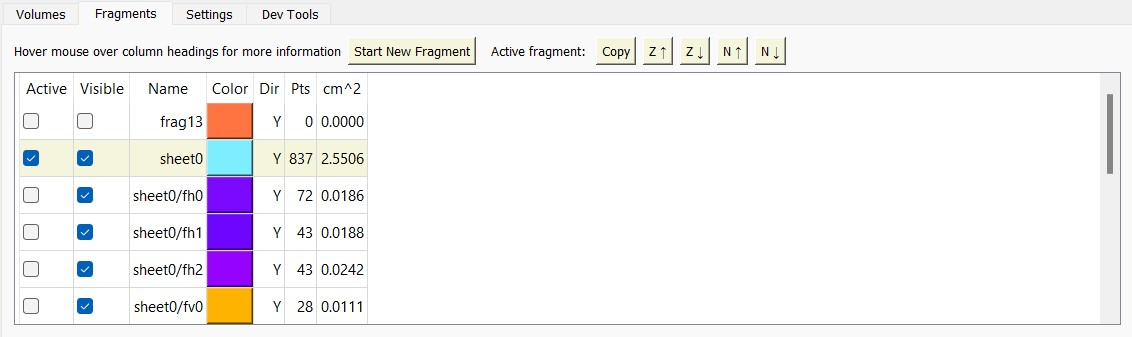
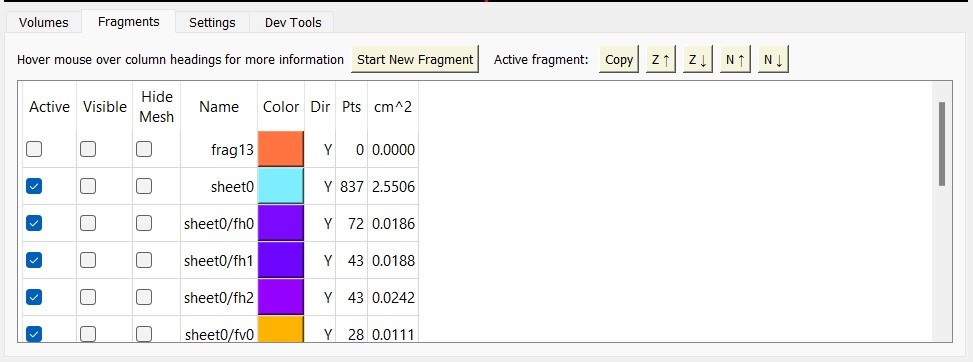
Minor changes to UI and README for annotation

Changed region(s): [[0.0, 0.1187, 1.0, 0.9792], [0.0, 0.0, 1.0, 0.089], [0.37, 0.3858, 0.4317, 0.4451]]

diff --git a/fragment.py b/fragment.py
@@ -33,7 +33,7 @@ class FragmentsModel(QtCore.QAbstractTableModel):
     columns = [
             "Active",
             "Visible",
-            "Mesh\nVisible",
+            "Hide\nMesh",
             "Name",
             "Color",
             "Dir",
@@ -44,7 +44,7 @@ class FragmentsModel(QtCore.QAbstractTableModel):
     ctips = [
             "Select which fragment is active;\nclick box to select.\nNote that you can only select fragments\nwhich have the same direction (orientation)\nas the current volume view",
             "Select which fragments are visible;\nclick box to select",
-            "Select which fragments have their mesh visible;\nclick box to select",
+            "Select which fragments have their mesh hidden;\nclick box to select",
             "Name of the fragment; click to edit",
             "Color of the fragment; click to edit",
             "Direction (orientation) of the fragment",
@@ -151,10 +151,12 @@ class FragmentsModel(QtCore.QAbstractTableModel):
             else:
                 return Qt.Unchecked
         if column == 2:
+            # Note that column is "Hide Mesh", but
+            # internal variable is mesh_visible
             if fragment_view.mesh_visible:
-                return Qt.Checked
-            else:
                 return Qt.Unchecked
+            else:
+                return Qt.Checked
 
     def dataAlignmentRole(self, index, role):
         return Qt.AlignVCenter + Qt.AlignRight
@@ -218,7 +220,9 @@ class FragmentsModel(QtCore.QAbstractTableModel):
             fragments = self.project_view.fragments
             fragment = list(fragments.keys())[row]
             fragment_view = fragments[fragment]
-            self.main_window.setFragmentMeshVisibility(fragment, value==Qt.Checked)
+            # Note that column reads "Hide Mesh", but internal variable
+            # is mesh_visible
+            self.main_window.setFragmentMeshVisibility(fragment, value==Qt.Unchecked)
             return True
         elif role == Qt.EditRole and column == 3:
             # print("setdata", row, value)

diff --git a/README.md b/README.md
@@ -756,10 +756,10 @@ An exception will be discussed as an advanced topic below.
 
 As for the remaining columns in the Fragments tab:
 
-The third column, `Mesh Visible`, controls the visibility of the mesh that is shown
-in the Fragment View.  Note that this setting has an effect only on fragments
-that are both `Visible` and `Active`.  The mesh visibility is turned on by
-default; the main reason to turn it off is when the fragment is used
+The third column, `Hide Mesh`, controls the visibility of the mesh that is shown
+in the Fragment View.  Note that this setting has a visible effect only on fragments
+that are both `Visible` and `Active`.  The mesh is visible (not hidden) by
+default; the main reason to hide the mesh is when the fragment is used
 to provide annotation (see "Advanced topic: Annotation").
 In that case, you want to make sure that this fragment
 and the fragment that is being annotated are both `Active` (see
@@ -881,17 +881,17 @@ Khartes does not have a well-developed annotation system.
 However, as shown in the picture above,
 it does allow you to add dots to the Fragment View to highlight features of interest.
 
-These dots are actually the vertices of a fragment whose only purpose
+These dots are actually the nodes of a fragment whose only purpose
 is to provide annotation.  Here are the steps to add annotation to
 your fragment view:
 
 1. Go to the Fragments tab in the Control Area and create a new fragment.
 
-2. Set the color and name of the new fragment.  In this example I will
+2. Set the name and color of the new fragment.  In this example I will
 name the fragment "crackle".  The annotation dots will be drawn in the
 color that you give the fragment.
 
-3. Unset `Mesh Visible` for the new fragment.
+3. Set `Hide Mesh` for the new fragment.
 
 4. Make sure that your new fragment ("crackle") and the fragment that you
 want to annotate (the fragment that shows areas of crackling) are both `Active`
@@ -903,8 +903,8 @@ highlighted in beige
 the main fragment (the one you are annotating) to be `Active` but not `Visible`.
 
 6. Now you should be able to add dots (annotation) using the same Shift+mouse
-combination that you use to add nodes.  You can also move the dots, and delete
-them, the way you would any other nodes.
+combination that you use to add nodes.  You can also move dots, or delete
+them, the way you would any other node.
 
 7. If the dots are not the size you prefer, go to the Settings tab and change
 the `Free Node` size.
@@ -1130,8 +1130,8 @@ the entities (nodes, lines, axes, etc) that are overlain on top of the data wind
 Here is what the different entities listed represent:
 * You already know what nodes are
 * Free nodes are annotation nodes (nodes belonging to a fragment
-that has `Mesh Visible` turned
-off; see "Advanced topic: Annotation")
+that has `Hide Mesh` set;
+see "Advanced topic: Annotation")
 * Lines are the fragment cross-sections that are drawn on the Data Slices
 * Meshes are the triangles drawn on the Fragment View
 * The Axes are the two crosshairs that meet in the center of each data window
